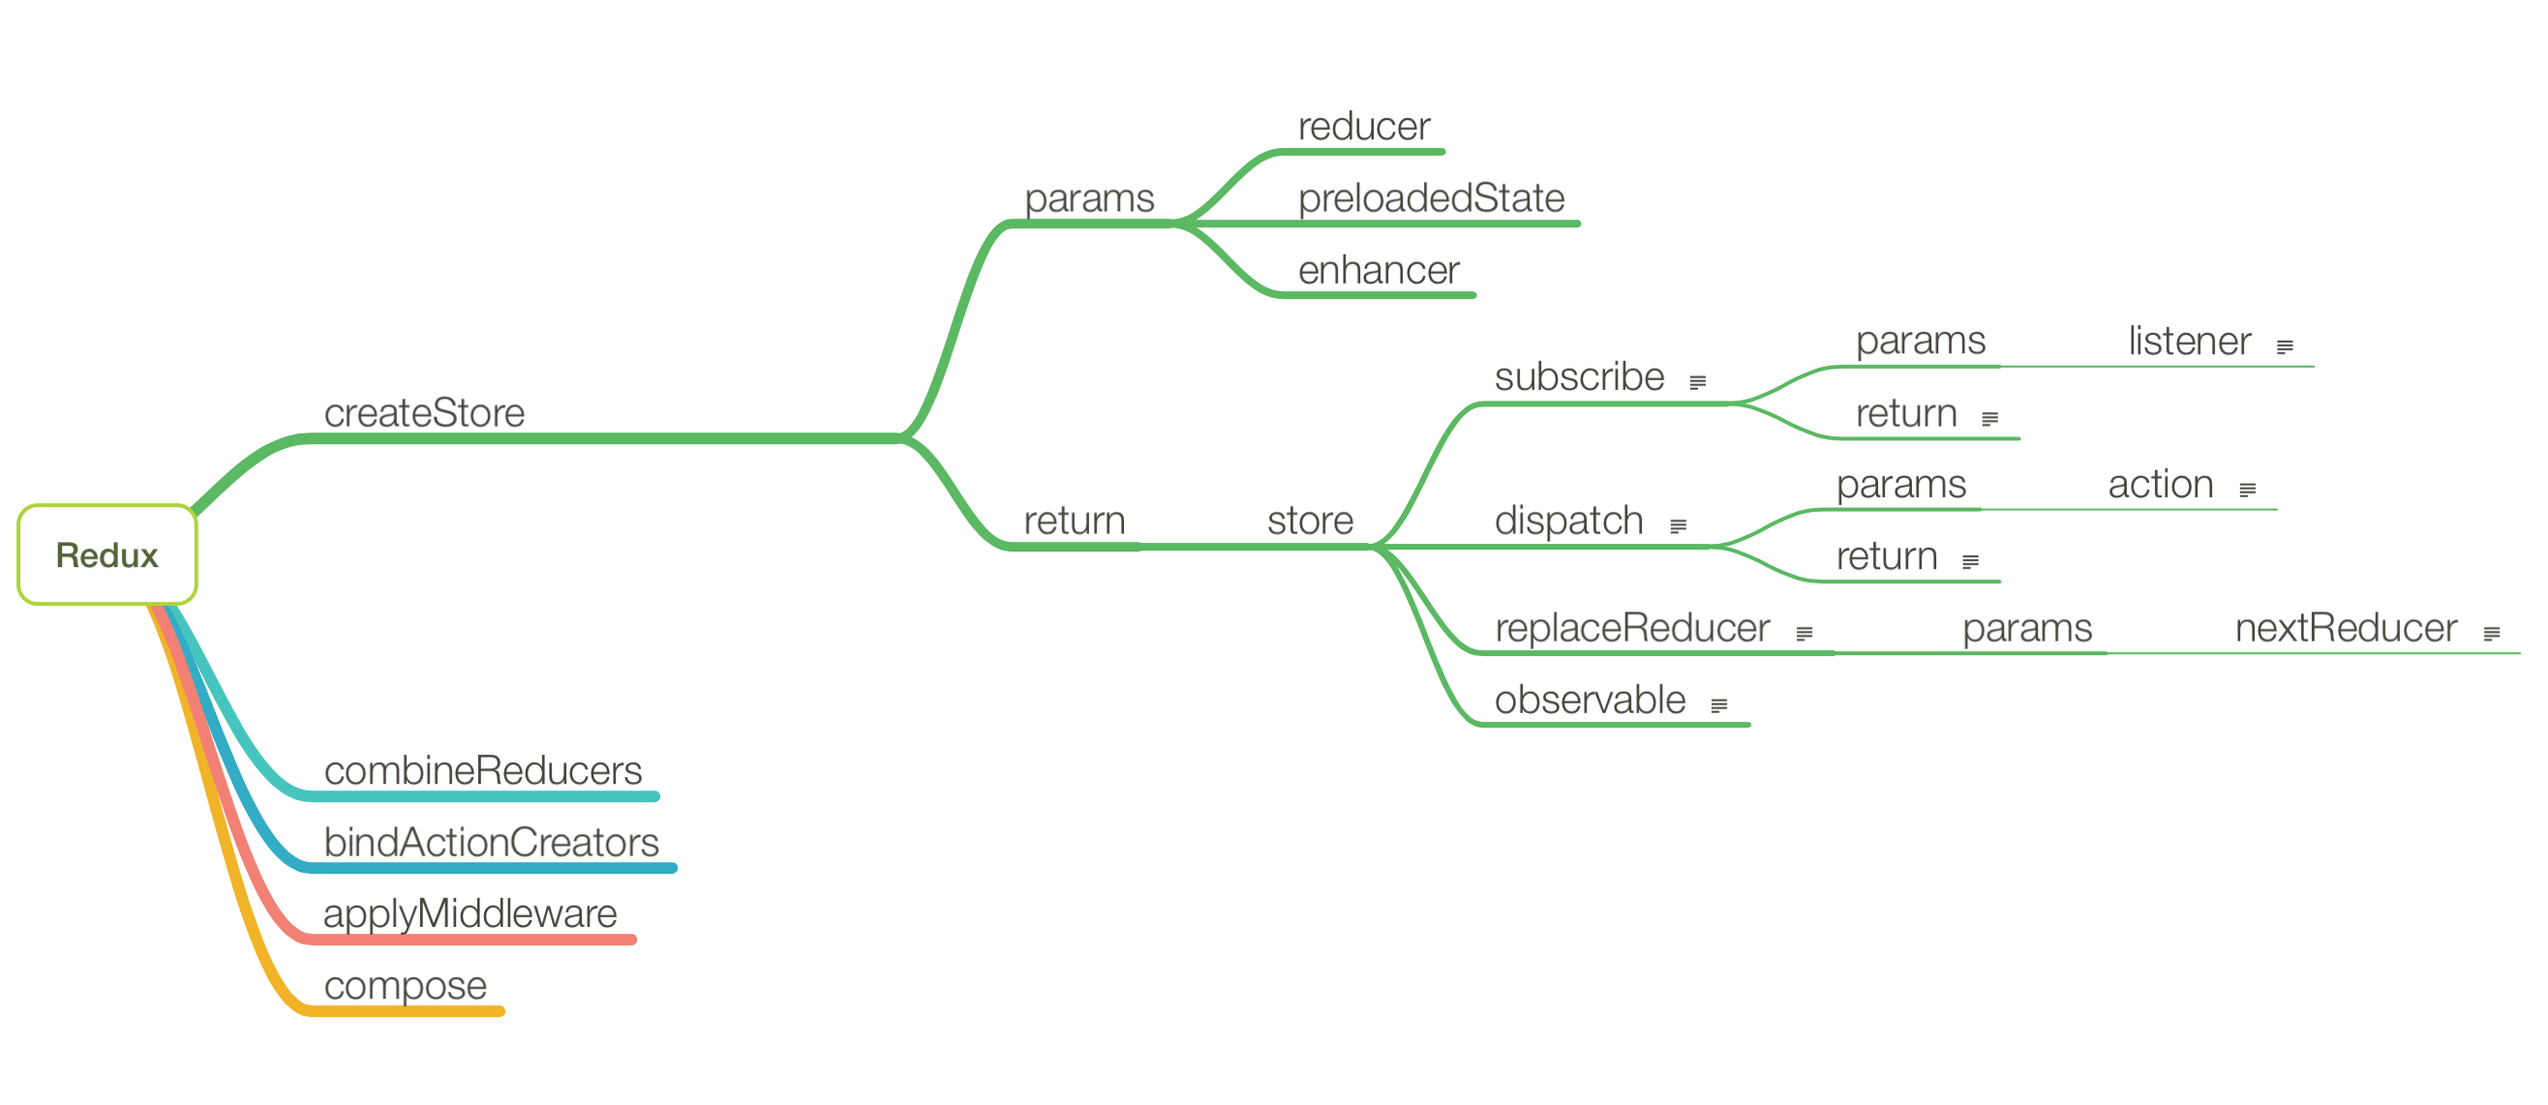
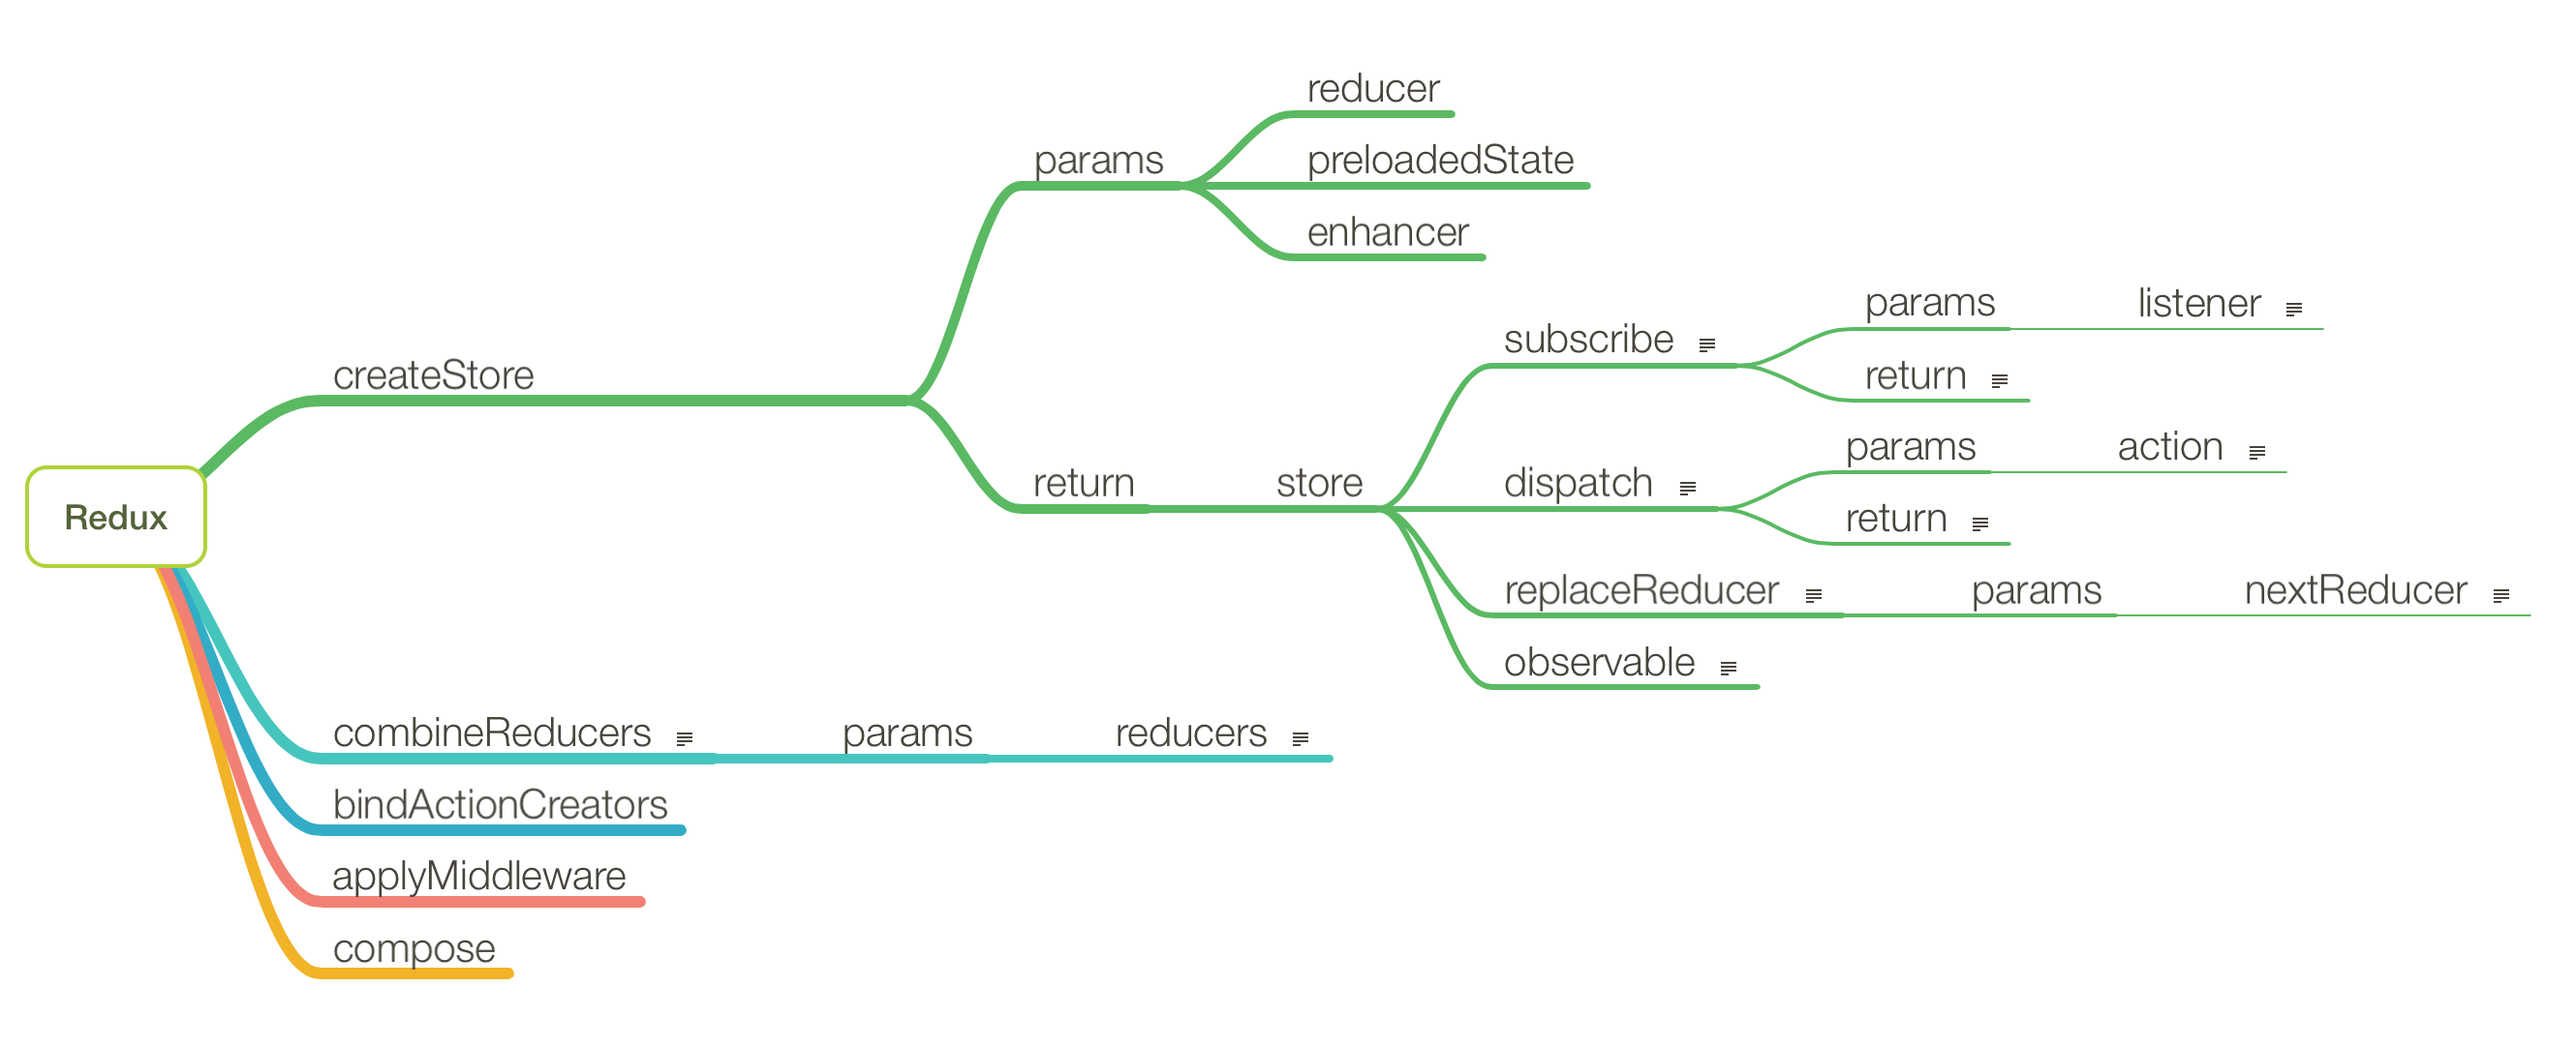
combineReducers

Changed region(s): [[0.3739, 0.2745, 0.997, 0.671], [0.0, 0.427, 0.5296, 0.9455], [0.0935, 0.061, 0.6231, 0.427]]

diff --git a/combineReducers.md b/combineReducers.md
@@ -1,0 +1,125 @@
+# combineReducers
+combineReducers 把一个由多个不同 reducer 函数作为 value 的 object，合并成一个最终的 reducer 函数。合并后的 reducer 可以调用各个子 reducer，并把它们的结果合并成一个 state 对象。state 对象的结构由传入的多个 reducer 的 key 决定。
+
+参数:
+
+reducers(一个对象，属性为不同的reducer)
+
+返回:
+
+返回一个包含了所有reducers的reducer函数，并且创建一个与reducers 对象结构相同的 state 对象。
+
+```apple js
+function combineReducers(reducers) {
+  var reducerKeys = Object.keys(reducers);
+  var finalReducers = {};
+  for (var i = 0; i < reducerKeys.length; i++) {
+    var key = reducerKeys[i];
+
+    if (process.env.NODE_ENV !== 'production') {
+      if (typeof reducers[key] === 'undefined') {
+        warning('No reducer provided for key "' + key + '"');
+      }
+    }
+
+    if (typeof reducers[key] === 'function') {
+      finalReducers[key] = reducers[key];
+    }
+  }
+}
+```
+
+首先会通过Oject.keys方法把传入的reducers对象的键都取出来放入reducerkeys里，并且创建一个空对象finalReducers。之后会循环把reducers里的属性方法复制到finalReducers中。
+
+```apple js
+function combineReducers(reducers) {
+  ...
+  ...
+  ...
+  var finalReducerKeys = Object.keys(finalReducers);
+
+  var unexpectedKeyCache = void 0;
+  if (process.env.NODE_ENV !== 'production') {
+    unexpectedKeyCache = {};
+  }
+
+  var shapeAssertionError = void 0;
+  try {
+    assertReducerShape(finalReducers);
+  } catch (e) {
+    shapeAssertionError = e;
+  }
+}
+```
+之后会定义一个finalReducerKeys来存储finalReducers中的键。在之后会调用一个叫assertReducerShape的函数，并把reducers传进去。
+
+```apple js
+function assertReducerShape(reducers) {
+  Object.keys(reducers).forEach(function (key) {
+    var reducer = reducers[key];
+    var initialState = reducer(undefined, { type: ActionTypes.INIT });
+
+    if (typeof initialState === 'undefined') {
+      throw new Error('Reducer "' + key + '" returned undefined during initialization. ' + 'If the state passed to the reducer is undefined, you must ' + 'explicitly return the initial state. The initial state may ' + 'not be undefined. If you don\'t want to set a value for this reducer, ' + 'you can use null instead of undefined.');
+    }
+
+    var type = '@@redux/PROBE_UNKNOWN_ACTION_' + Math.random().toString(36).substring(7).split('').join('.');
+    if (typeof reducer(undefined, { type: type }) === 'undefined') {
+      throw new Error('Reducer "' + key + '" returned undefined when probed with a random type. ' + ('Don\'t try to handle ' + ActionTypes.INIT + ' or other actions in "redux/*" ') + 'namespace. They are considered private. Instead, you must return the ' + 'current state for any unknown actions, unless it is undefined, ' + 'in which case you must return the initial state, regardless of the ' + 'action type. The initial state may not be undefined, but can be null.');
+    }
+  });
+}
+```
+assertReducerShape函数是用来判断传入的reducers中的reducer是否都是合法的reducer，如果有不符合标准的就会报出相应的错误。
+
+最后来看combineReducers的返回值
+```apple js
+function combination() {
+    var state = arguments.length > 0 && arguments[0] !== undefined ? arguments[0] : {};
+    var action = arguments[1];
+
+    if (shapeAssertionError) {
+      throw shapeAssertionError;
+    }
+
+    if (process.env.NODE_ENV !== 'production') {
+      var warningMessage = getUnexpectedStateShapeWarningMessage(state, finalReducers, action, unexpectedKeyCache);
+      if (warningMessage) {
+        warning(warningMessage);
+      }
+    }
+
+    var hasChanged = false;
+    var nextState = {};
+    for (var _i = 0; _i < finalReducerKeys.length; _i++) {
+      var _key = finalReducerKeys[_i];
+      var reducer = finalReducers[_key];
+      var previousStateForKey = state[_key];
+      var nextStateForKey = reducer(previousStateForKey, action);
+      if (typeof nextStateForKey === 'undefined') {
+        var errorMessage = getUndefinedStateErrorMessage(_key, action);
+        throw new Error(errorMessage);
+      }
+      nextState[_key] = nextStateForKey;
+      hasChanged = hasChanged || nextStateForKey !== previousStateForKey;
+    }
+    return hasChanged ? nextState : state;
+}
+```
+返回的是一个叫combination的函数，这个函数是一个标准的reducer函数。
+
+combination函数的第二个参数是一个state，先定义一个变量存储起来。
+定义一个变量nextState存储一个空对象，作为新的reducers的容器。
+之后回去对传入的reducers进行循环。在循环中会进行如下操作：
+1. 定义一个_key来存储当前key。
+2. 定义一个reducer存储当前reducer。
+3. 定义一个previousStateForKey存储state。
+4. 定义一个nextStateForKey存储初始化的state。
+5. 如果初始化的state为undefined，就报出错误。
+6. 把当前的state nextStateForKey存储到nextState中以_key为键。
+7. 用hasChanged来标记state是否改变。
+
+最后如果有改变就返回新的state否则返回原始的state。
+
+combineReducers把多个reducer合并成一个reducers并生成一个state。
+

diff --git a/createStore.md b/createStore.md
@@ -24,7 +24,7 @@ createStore是用来创建Store的方法
 
 ### subscribe
 监听改变事件，可以绑定多个监听回调
-```
+```apple js
 function subscribe(listener) {
     if (typeof listener !== 'function') {
       throw new Error('Expected listener to be a function.');
@@ -60,7 +60,7 @@ function subscribe(listener) {
 ### dispatch
 用来分配操作，并且改变状态只能通过dispatch来执行。
 会循环所有的listeners并执行。
-```
+```apple js
 function dispatch(action) {
     if (!isPlainObject(action)) {
       throw new Error('Actions must be plain objects. ' + 'Use custom middleware for async actions.');
@@ -99,7 +99,7 @@ function dispatch(action) {
 
 ### replaceReducer
 重写当前使用的reducer。如果你想执行一些动态的reducers时可以使用，或者热加载。
-```
+```apple js
 function replaceReducer(nextReducer) {
     if (typeof nextReducer !== 'function') {
       throw new Error('Expected the nextReducer to be a function.');
